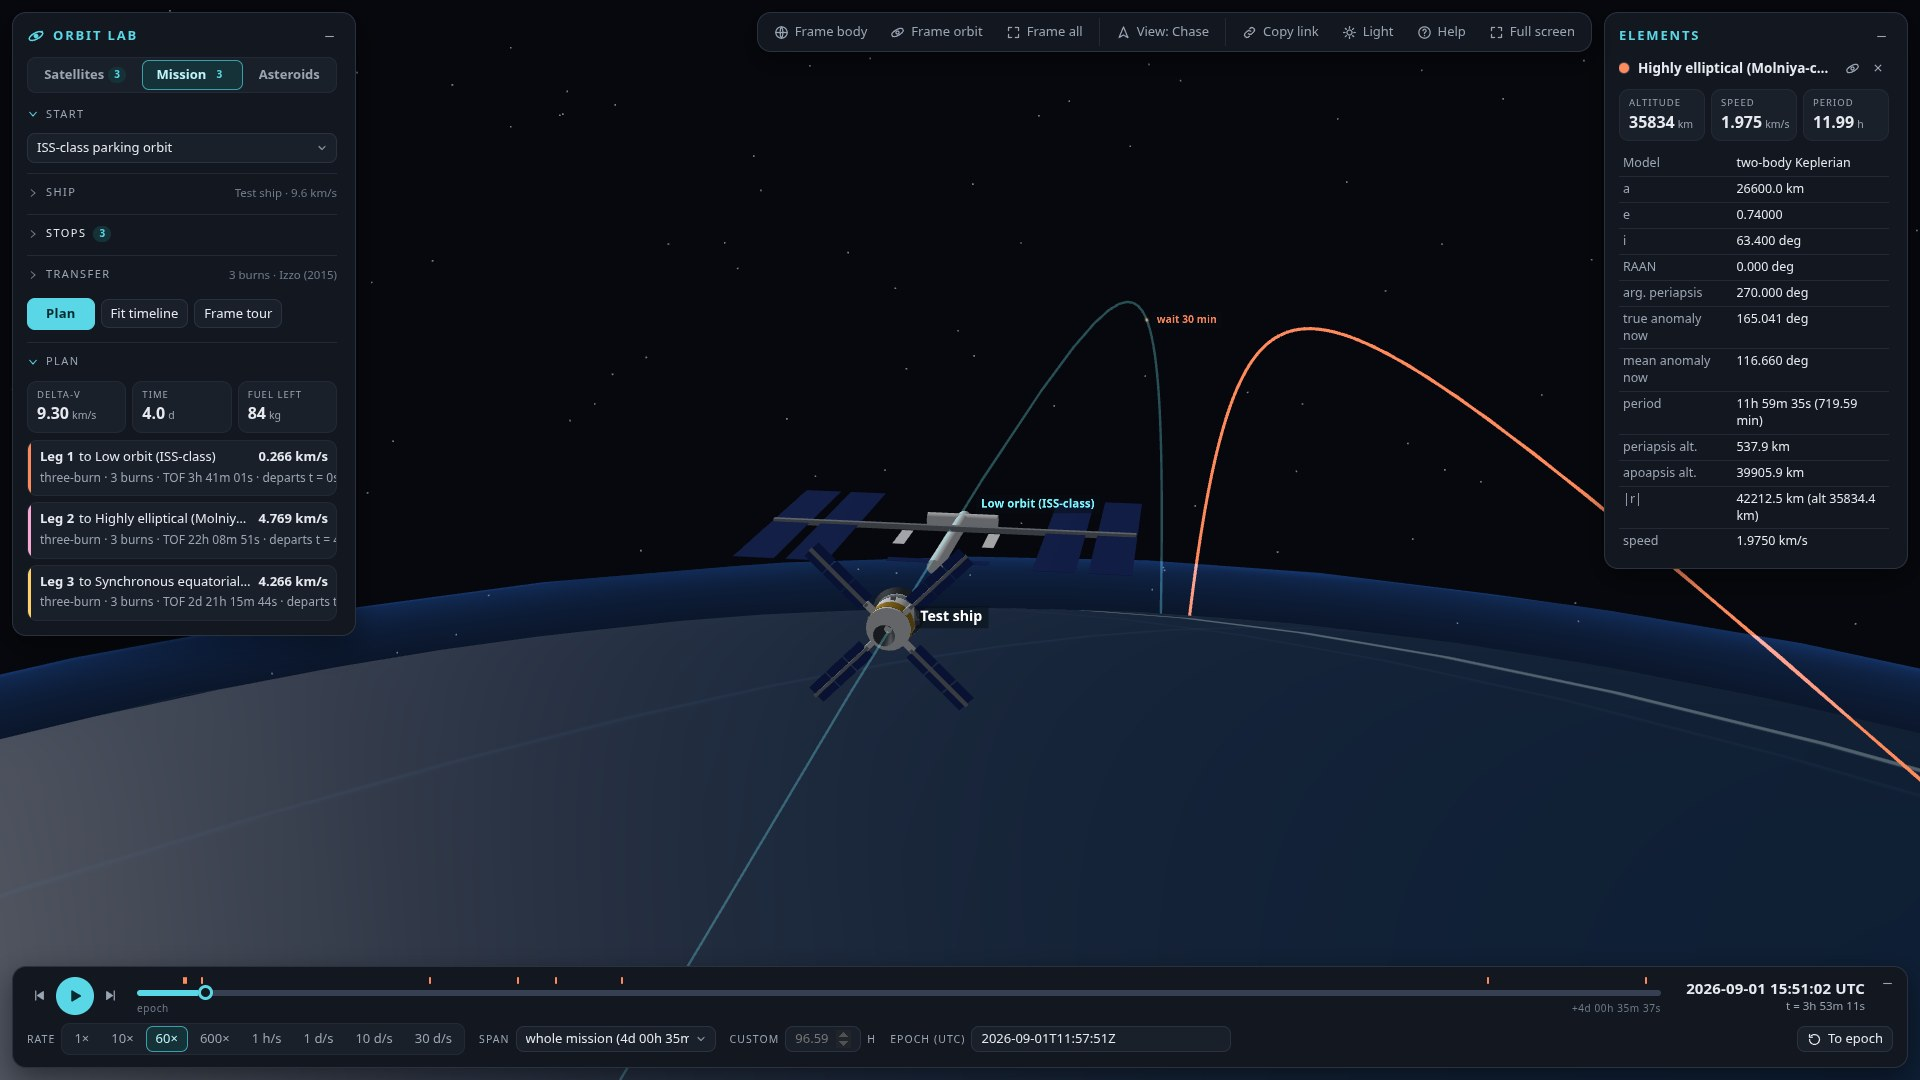
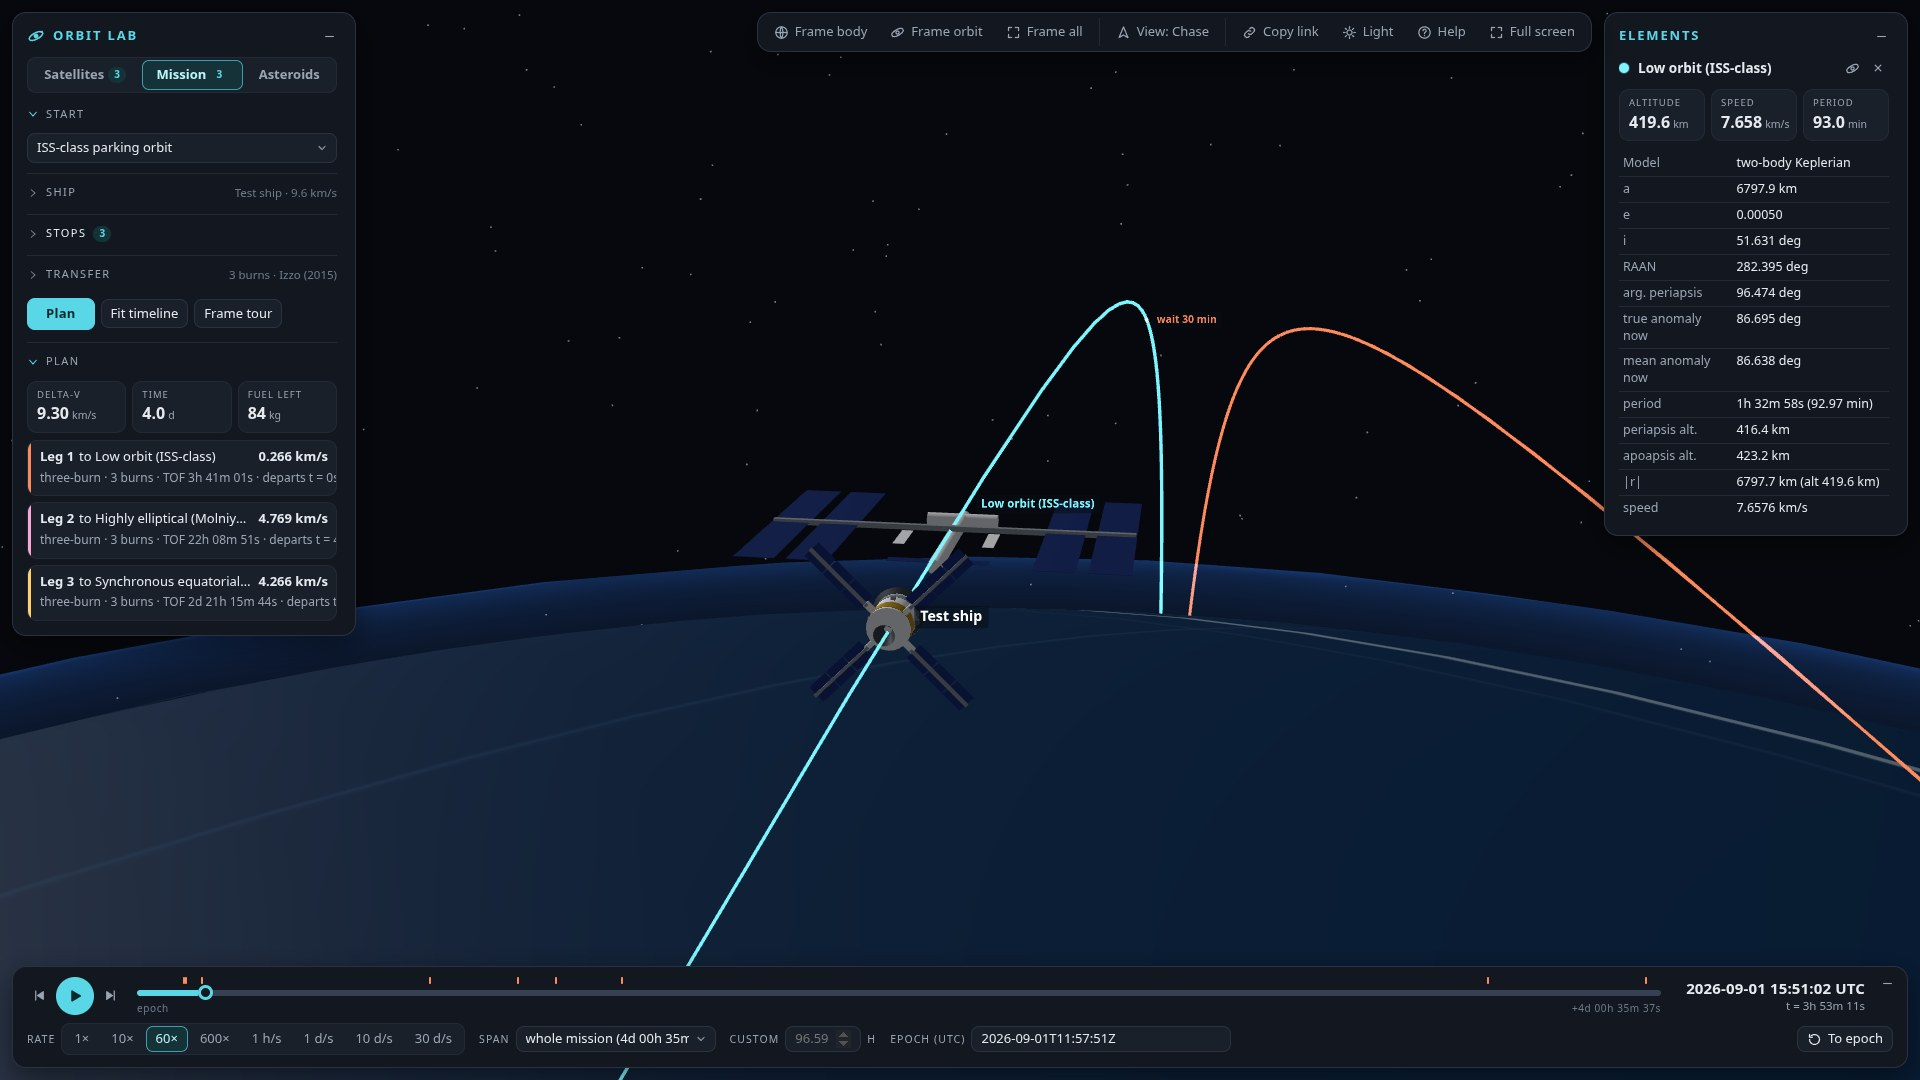
Frame the launch chase downrange, soften the ocean's glare, and record the interface research
- The chase camera followed the velocity, which on a launch points almost straight up: the camera sat under the rocket looking into black sky. On the ascent it now looks downrange along the launch plane, so the horizon, the coast and the climbing rocket stay in view.
- The globe uses a physical material at a quarter of the usual specular strength: looking toward the Sun, the sea near the horizon no longer turns into a white wash, and a soft glint remains.
- research/08_interface_conventions.md records what NASA Eyes, Cesium, OpenSpace, Celestia, KeepTrack and 3D-interaction research do about layout, camera moves, selection, labels, time and help, with sources, what Orbit Lab took from them, and what it left out and why.

diff --git a/app/src/scene/SceneManager.ts b/app/src/scene/SceneManager.ts
@@ -838,7 +838,12 @@ export class SceneManager {
    * the ship cannot leave the frame at any playback rate.
    */
   private chaseCamera(st: ShipState, worldPos: THREE.Vector3, vel: THREE.Vector3, dtMs: number): void {
-    const f = vel.clone().applyQuaternion(this.inertial.quaternion)
+    // a rocket climbing almost straight up would put the camera under it, looking into empty sky: on
+    // the ascent the camera looks downrange along the launch plane instead, horizon and ground in view
+    const along = st.kind === 'ascent' && this.ascentRef
+      ? new THREE.Vector3(this.ascentRef.n.x, this.ascentRef.n.y, this.ascentRef.n.z).cross(new THREE.Vector3(st.r.x, st.r.y, st.r.z)).multiplyScalar(this.ascentRef.rate >= 0 ? 1 : -1)
+      : vel
+    const f = along.clone().applyQuaternion(this.inertial.quaternion)
     if (f.lengthSq() < 1e-12) f.copy(this.chaseReady ? this.chaseF : WORLD_X)
     f.normalize()
     const u = chaseUp(worldPos, f, WORLD_POLE)

diff --git a/app/src/scene/CentralBodyMesh.ts b/app/src/scene/CentralBodyMesh.ts
@@ -102,7 +102,9 @@ export class CentralBodyMesh {
     }
     if (token !== this.loadToken || !this.sphere) return
     const old = this.sphere.material as THREE.Material
-    this.mapMaterial = new THREE.MeshStandardMaterial({ map: assets.texture, roughnessMap: assets.roughness, roughness: 1, metalness: 0 })
+    // a physical material for its specular strength: at full strength the sun's reflection off the water
+    // turned the sea near the horizon into a white wash whenever the camera looked toward the Sun
+    this.mapMaterial = new THREE.MeshPhysicalMaterial({ map: assets.texture, roughnessMap: assets.roughness, roughness: 1, metalness: 0, specularIntensity: 0.25 })
     this.sphere.material = this.mapMaterial
     old.dispose()
     const coast = new THREE.LineSegments(assets.coast, new THREE.LineBasicMaterial({ color: 0xe6f2ff, transparent: true, opacity: 0.55, depthWrite: false }))

diff --git a/research/08_interface_conventions.md b/research/08_interface_conventions.md
@@ -1,0 +1,68 @@
+# How space viewers and 3D tools handle navigation, and what Orbit Lab took from them
+
+Date: 2026-11-07. Written alongside the interface sweep of that day (commits a2d4537 and 17812f3), which fixed the visual bugs found at 1920x1080 and reworked how the view is navigated. It adds to the UI notes in `track3_existing_projects.md` (dim rather than hide, about 40 labels kept apart, a 15 px pick box, Eyes' rate dial and ride-along camera) rather than repeating them.
+
+Sources were read on the web on the day. NASA Eyes was read from its production bundle and in-app help text, because the browser used had no WebGL. The KSP wiki and forum, the GMAT OrbitView page, Stellarium Web and Eyes on the Earth could not be checked.
+
+## What the established tools do
+
+**Layout.** The scene owns the window and the controls sit at its edges, collapsible:
+- **Cesium Viewer** puts the clock dial bottom-left, the timeline along the bottom, a toolbar top-right (home, layers, help) and full screen bottom-right. Its info box and selection marker appear only while something is selected ([Viewer.js](https://github.com/CesiumGS/cesium/blob/main/packages/widgets/Source/Viewer/Viewer.js)).
+- **NASA Eyes** has an object panel on the left, search, collapsible time controls, and one settings button for lighting, layers, labels and full screen.
+- **KeepTrack** has a top bar with search, clock and help, a drawer of tools along the bottom, and an info box that exists only while a satellite is selected ([walkthrough](https://docs.keeptrack.space/intro/interface-walkthrough/)).
+- **OpenSpace** has panels that float or detach, and F1 hides them all ([orientation](https://docs.openspaceproject.com/latest/getting-started/orientation/index.html)).
+- **MapLibre** shifts the camera's vanishing point by a sidebar's width (`padding`), so what is in focus stays centred in the part of the screen that can be seen ([example](https://maplibre.org/maplibre-gl-js/docs/examples/offset-the-vanishing-point-using-padding/)).
+
+**Camera.** In space viewers the camera orbits the object in focus:
+- OpenSpace always has a Focus.
+- Celestia orbits the selection.
+- KeepTrack orbits the selection, or Earth when nothing is selected ([mouse](https://docs.keeptrack.space/intro/mouse-controls/)).
+
+Zooming toward the cursor is a globe convention (Cesium). It is off by default in three.js OrbitControls and in camera-controls. Camera moves are animated rather than cut:
+- Autodesk's ViewCube study found that novices misread jump cuts, and it animates view changes over 0.5 s ([paper](https://research.autodesk.com/app/uploads/2023/03/viewcube-a-3d-orientation.pdf_recsg8BsEjf1BeIbZ.pdf)).
+- NASA Eyes takes about 0.75 s for a go-to.
+- Celestia uses 5 s with exponential easing ([observer.cpp](https://github.com/CelestiaProject/Celestia/blob/master/src/celengine/observer.cpp)).
+- Cesium's flyTo takes 3 s ([CameraFlightPath](https://github.com/CesiumGS/cesium/blob/main/packages/engine/Source/Scene/CameraFlightPath.js)).
+- Van Wijk and Nuij scale the duration with the length of the zoom-and-pan path ([d3](https://d3js.org/d3-interpolate/zoom)).
+
+Any user input cancels a move, as in OpenSpace's camera paths and Stuff in Space's lock. Reduced motion should cut instead of fly ([MDN](https://developer.mozilla.org/en-US/docs/Web/CSS/@media/prefers-reduced-motion)).
+
+**Selection and labels:**
+- A drag never selects, and a click on empty space deselects (KeepTrack, Celestia, Stuff in Space).
+- Cesium selects on a click and tracks on a double-click. Stuff in Space shows the hovered satellite's orbit, its name and a pointer cursor ([main.js](https://github.com/jeyoder/StuffInSpace/blob/master/web-root/scripts/main.js)).
+- NASA Eyes draws labels as HTML and resolves overlaps by priority per category (star 100, planet 50, spacecraft 30, moon 25, asteroid 15).
+- Cesium can cluster labels within 80 px ([EntityCluster](https://cesium.com/learn/cesiumjs/ref-doc/EntityCluster.html)).
+
+**Time:**
+- Eyes steps the rate through a ladder (1 s to 3 years a second) and keeps time and rate in the URL.
+- Cesium has a shuttle ring and a timeline that scrubs, zooms and pans ([Timeline.js](https://github.com/CesiumGS/cesium/blob/main/packages/widgets/Source/Timeline/Timeline.js)).
+- Celestia, Stellarium and KeepTrack bind keys for slower and faster ([keys](https://docs.keeptrack.space/basic-tut/keyboard-shortcuts/)).
+
+**Discoverability:**
+- Cesium's "?" button shows the mouse and touch controls ([source](https://github.com/CesiumGS/cesium/blob/main/packages/widgets/Source/NavigationHelpButton/NavigationHelpButton.js)).
+- Stellarium's F1 lists every hotkey.
+- "?" for a shortcut list is a common web convention ([GitHub](https://docs.github.com/en/get-started/accessibility/keyboard-shortcuts)).
+- WCAG 2.1.4 asks that single-character shortcuts can be turned off, remapped, or limited to a focused control ([W3C](https://www.w3.org/WAI/WCAG22/Understanding/character-key-shortcuts.html)).
+- Nielsen Norman Group recommend help in context over up-front tutorials ([onboarding](https://www.nngroup.com/articles/onboarding-tutorials/)), empty states that say what to do next ([empty states](https://www.nngroup.com/articles/empty-state-interface-design/)), and nothing more than two levels deep ([progressive disclosure](https://www.nngroup.com/articles/progressive-disclosure/)).
+
+## What Orbit Lab does now
+
+| Convention | In Orbit Lab |
+|---|---|
+| The view centres on what can be seen | A camera view offset puts the point looked at in the middle of the area between the panels, eased when a panel opens or closes; framing fits that area (`SceneManager.applyViewOffset`, `fitDistance`). |
+| Animated, interruptible camera moves | Frame body, Frame orbit, Frame all and the way out of Chase or Bird's-eye fly in 0.7 to 1.4 s, eased, through log distance, rolling back to level; any input cancels; reduced motion cuts (`flyTo`, `stepFlight`). |
+| Click, double-click, hover | Click selects a satellite or asteroid (or its label), double-click flies to its orbit, a click on empty space or Esc clears; hover brightens the orbit and names the object (`pickAt`). |
+| Labels by priority, never over each other | One screen-space pass a frame: labels draw over the scene; any behind the planet or the camera are hidden; the rest are placed ship, hover, selection, leg in play, others, each trying four sides, with hysteresis (`scene/labels.ts`). |
+| Help and shortcuts | A help dialog (the `?` key or the toolbar) lists mouse, touch and keys; the single-key shortcuts (rate, previous and next burn, camera modes, framing, labels, panels) can be switched off there (`ui/keys.ts`, `ui/HelpDialog.tsx`). |
+| Full screen and hide the interface | Full screen in the toolbar; Hide panels in the View menu and on `P`. |
+| Home | Frame body, also on `H`. |
+| Contextual onboarding | A one-line hint on a first visit, gone at the first touch of the scene and remembered. |
+| Rate steps by key, events on the timeline | `,` and `.` step through the rate ladder; `[` and `]` and two timeline buttons jump between burns. |
+| Close look at the followed object | In Follow the zoom limit applies to the ship, not to the body's centre, so the ship can be seen from about 25 km. |
+
+## What it does not do, and why
+
+- **Zoom toward the cursor.** Space viewers orbit the object in focus, and the wheel stays aimed at it, as OpenSpace and Celestia do.
+- **Make a selected satellite the camera's pivot and follow it.** Double-click frames its orbit instead. Following any object is a larger change to the camera model and is left for later.
+- **Reverse time, a timeline that zooms, a search box.** These are not done yet. The scenarios are small enough that the list in the left panel serves as search.
+- **Show the Elements panel only while something is selected.** It stays docked with an empty state, because showing and hiding it would shift the centred view at every selection.

diff --git a/research/README.md b/research/README.md
@@ -15,6 +15,7 @@ Date: 2026-09-01. These files answer the three asks from the August 31 meeting: 
 | `05_mission_path_plan.md` | Implementation plan for the satellite-tour visualization: Lambert rendezvous with moving targets, 2- to 4-burn strategies, ship model, path and burn animation, camera follow; §13 adds the launch-from-the-ground model. Implemented; this is the design record. |
 | `06_routing_algorithm_format.md` | The standard format for asteroid routing algorithms (ARP-ALGORITHM 1) used by the Routing tab: the problem as implemented, the `solve(problem, tools)` interface, run rules, where the code runs, the transfer modes and the Path section, the Lambert solver comparison, and the differences from the two papers. |
 | `07_three_burn_transfer.md` | How the three-burn rendezvous derivation sheet (in-plane shaping, plane change at the node, velocity match) was implemented as the app's default transfer: the mapping from the sheet's sections to the code, the four places the code departs from the sheet and why, where it is used, what to expect of the numbers, and the tests. |
+| `08_interface_conventions.md` | How space viewers (NASA Eyes, Cesium, OpenSpace, Celestia, KeepTrack, Stuff in Space) and 3D-tool research handle layout, camera moves, selection, labels, time and help, with sources; what Orbit Lab took from them in the 2026-11-07 interface sweep, and what it left out and why. |
 
 ## Track study documents (Part II, Tracks 1 to 6)
 

diff --git a/README.md b/README.md
@@ -181,7 +181,7 @@ Tests: `npm --prefix app test` for the app, `PYTHONPATH=. api/.venv/bin/pytest a
 | [`app/`](app/README.md) | Vite, React 19, three.js and zustand. Keplerian and SGP4 propagation, the scene, the panels, the share-link codec. |
 | [`api/`](api/README.md) | A FastAPI planner, deployed as one Vercel Python function: Lambert and three-burn rendezvous, launch ascents, and the asteroid-routing transfer model. |
 | `app/public/arp-worker.js` | Runs routing algorithms in a Web Worker with Pyodide. |
-| [`research/`](research/README.md) | The research behind it: orbital mechanics, frames and SGP4, existing tools, transfers, the routing papers, and the three-burn derivation. |
+| [`research/`](research/README.md) | The research behind it: orbital mechanics, frames and SGP4, existing tools, transfers, the routing papers, the three-burn derivation, and [interface conventions](research/08_interface_conventions.md). |
 
 The physics is stated plainly rather than hidden. Satellites and the ship coast on two-body orbits; burns are impulsive; the launch is a planar ascent with drag and a simple guidance law; each leg arrives exactly where the target's own propagator puts it. The [app's README](app/README.md#fidelity-stated-honestly) lists every simplification.
 
